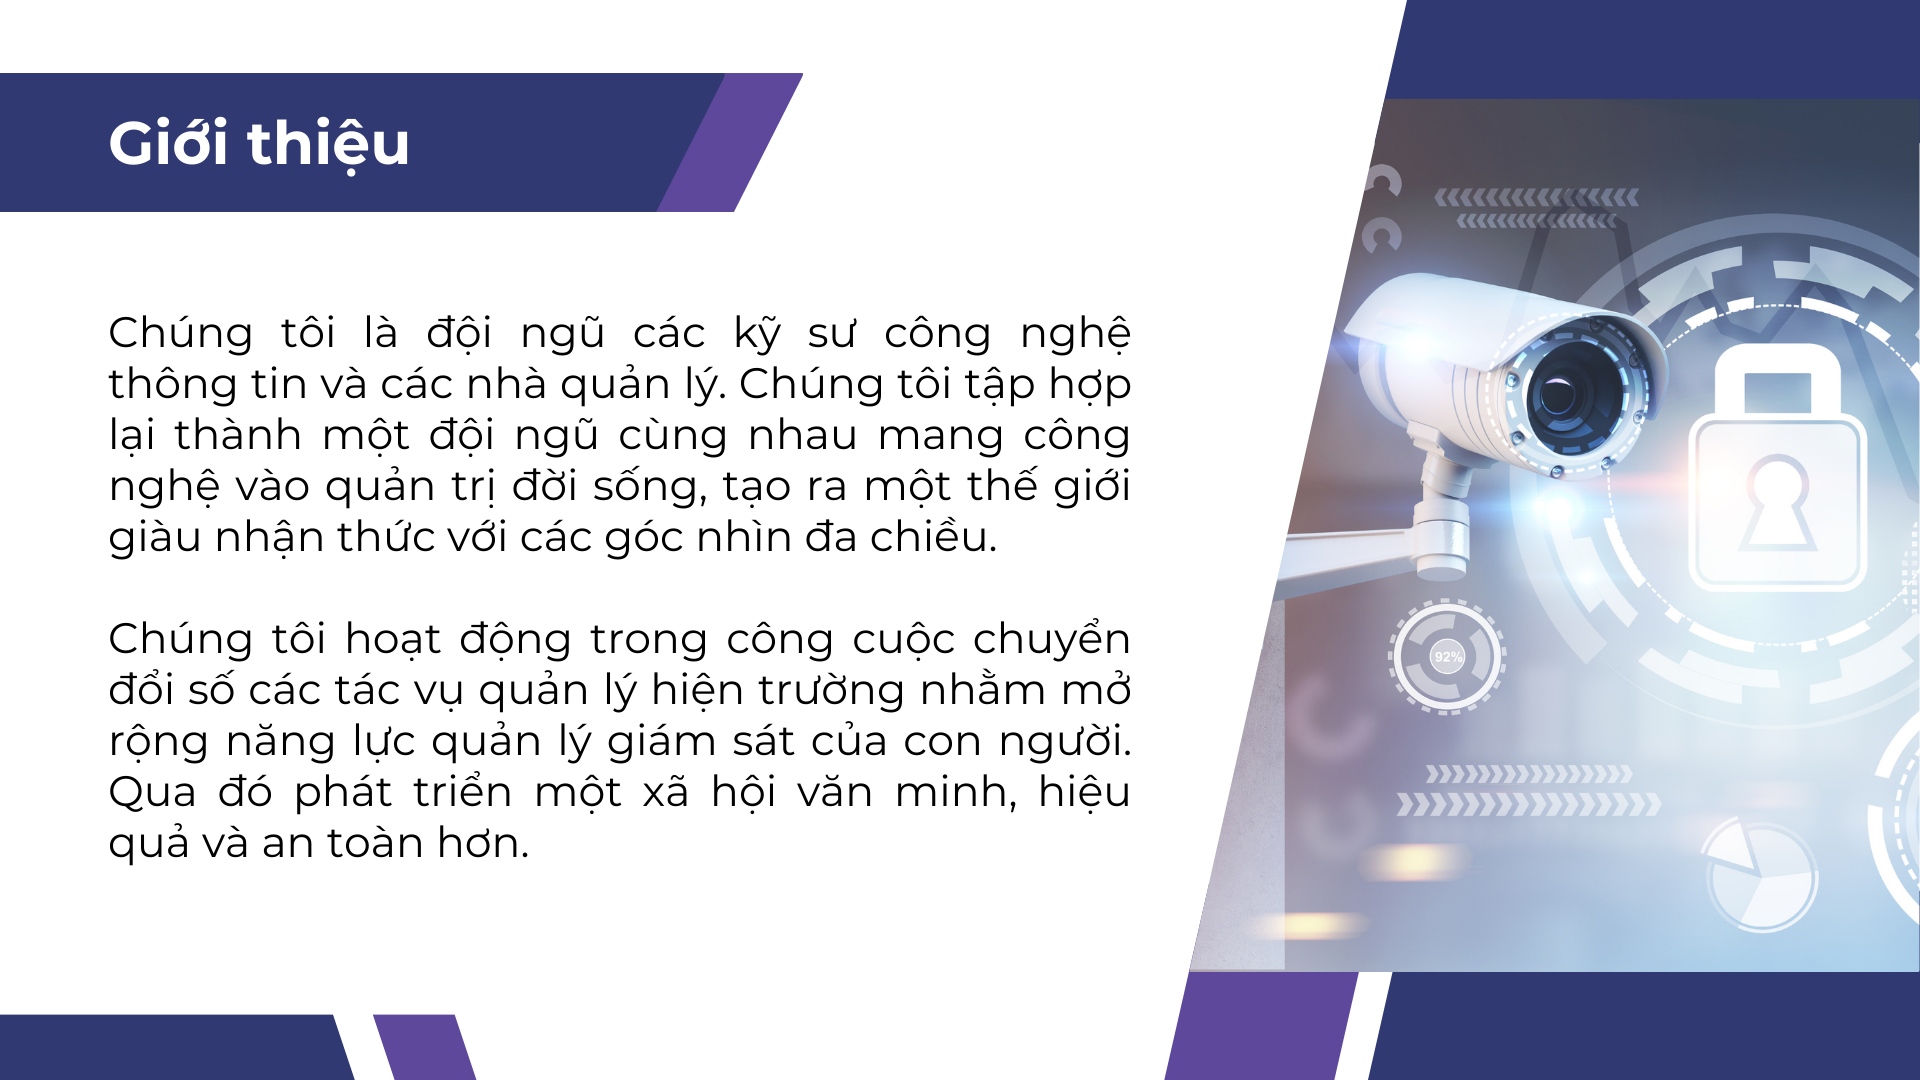
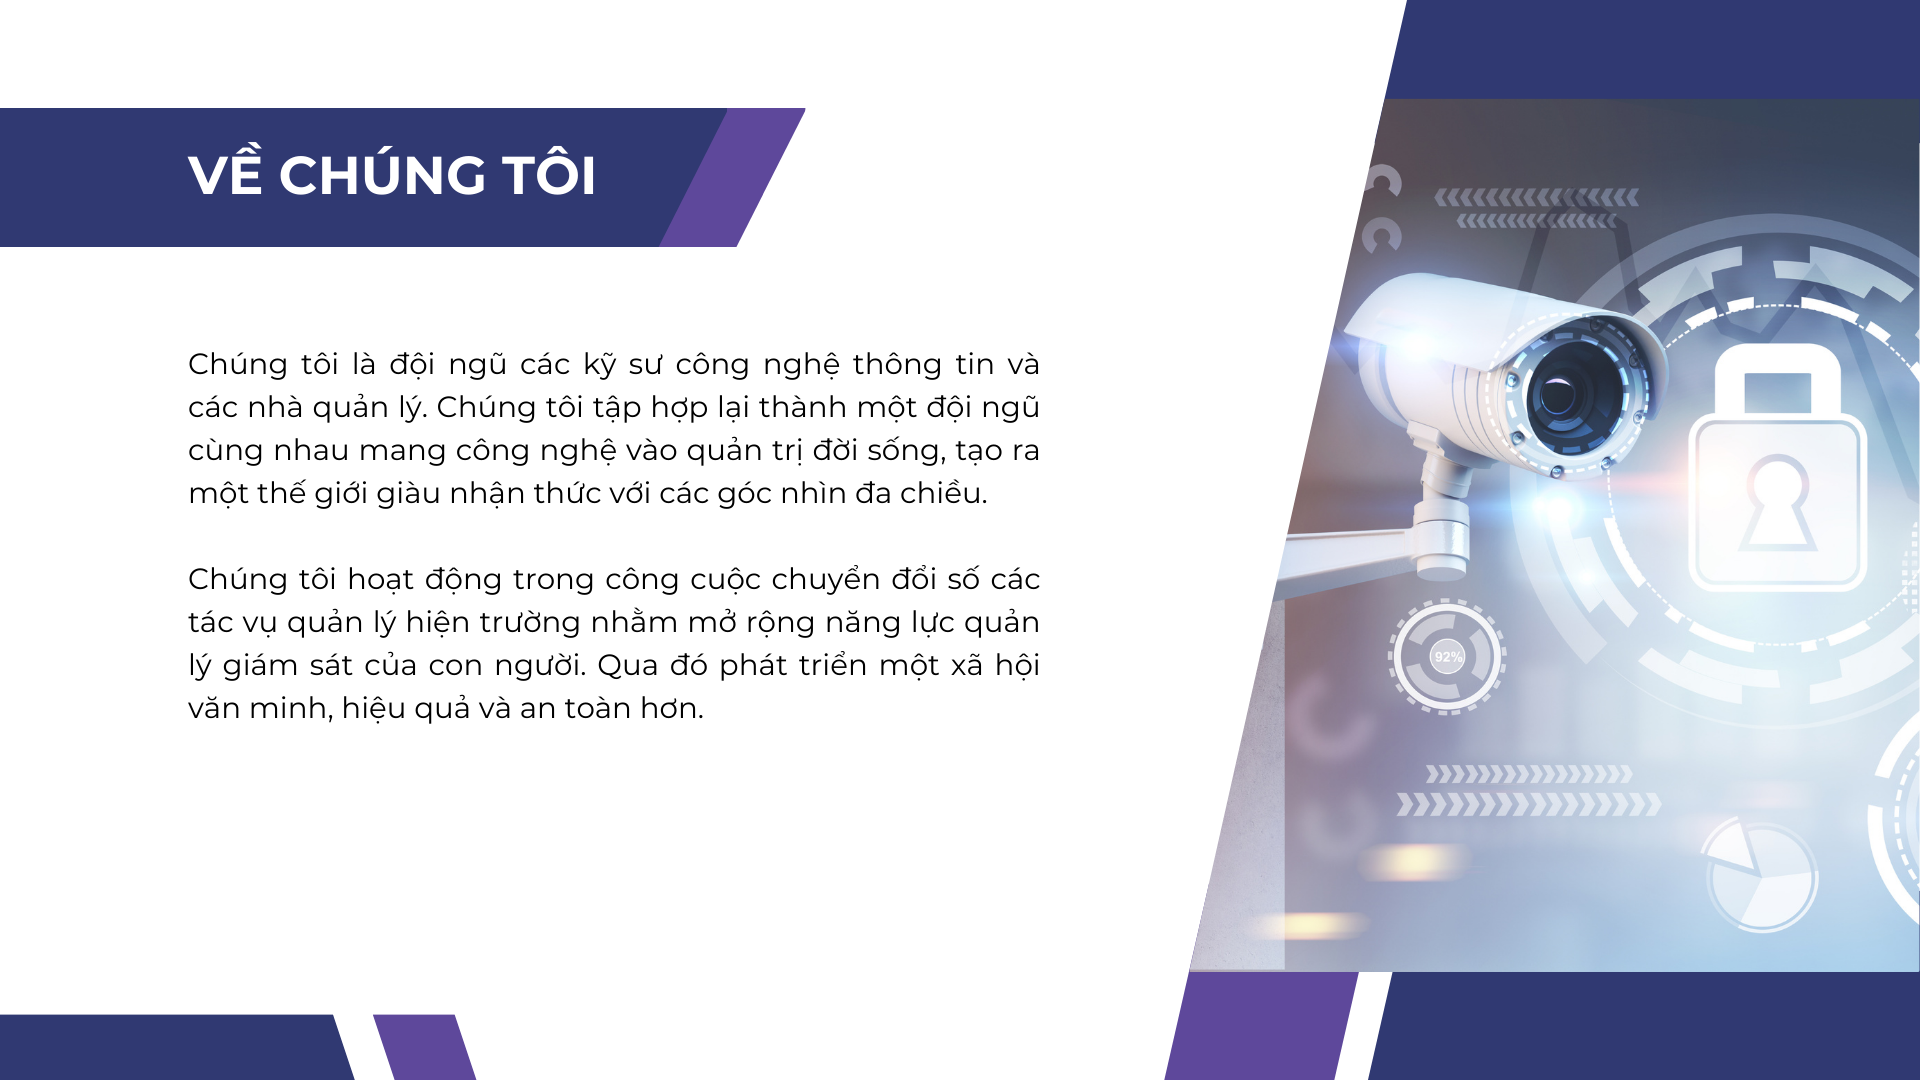
edit

Changed region(s): [[0.0625, 0.275, 0.5938, 0.7944], [0.0, 0.0611, 0.4375, 0.2444]]

diff --git a/components/Features.vue b/components/Features.vue
@@ -5,7 +5,6 @@
         <div class="col-md-12 col-lg-12 col-xl-12">
             <!-- section title -->
             <div class="text-center">
-                <h2>Về chúng tôi</h2>
                 <div class="w-100">
                   <img width="100%" src="../static/assets/img/2LTS_3.png" alt="">
                 </div>
@@ -25,7 +24,7 @@
                         <div class="single-feature-inner text-center">
                             <img
                               style="object-fit: contain;"
-                              src="https://lh3.googleusercontent.com/u/0/drive-viewer/AAOQEOSISuYrVjDtqhZzorbGad07am7nUuUdjWnRfxBexZXlXH7rjj5-TzZgqHovb9n4K4tPUUNTTkrbIJ036-8NfW_S3yP2LA=w1920-h969" 
+                              src="https://lh3.googleusercontent.com/u/0/drive-viewer/AAOQEOSISuYrVjDtqhZzorbGad07am7nUuUdjWnRfxBexZXlXH7rjj5-TzZgqHovb9n4K4tPUUNTTkrbIJ036-8NfW_S3yP2LA=w1920-h969"
                               class="svg"
                               alt=""
                             >
@@ -36,7 +35,7 @@
                         <div class="single-feature-inner text-center">
                             <img
                               style="object-fit: contain;"
-                              src="https://lh3.googleusercontent.com/u/0/drive-viewer/AAOQEORFaa-Za2e68WCSJMNdlRulty_4dYZ2wCKN0Ad9Mmtp0ZUqPG0Reqrkxb_sIJGl8KGwsLymV6u-csV7knlLjxFOrexHPQ=w1920-h969" 
+                              src="https://lh3.googleusercontent.com/u/0/drive-viewer/AAOQEORFaa-Za2e68WCSJMNdlRulty_4dYZ2wCKN0Ad9Mmtp0ZUqPG0Reqrkxb_sIJGl8KGwsLymV6u-csV7knlLjxFOrexHPQ=w1920-h969"
                               class="svg"
                               alt=""
                             >

diff --git a/components/NavOne.vue b/components/NavOne.vue
@@ -5,16 +5,16 @@
           <div class="main-menu-wrap">
               <div class="container">
                   <div class="row align-items-center">
-                      <div class="col-xl-3 col-lg-3 col-md-4 col-6">
+                      <div class="col-xl-2 col-lg-2 col-md-3 col-4">
                           <!-- Logo -->
                           <div class="logo">
                               <nuxt-link to="/">
-                                  <img src="/assets/img/logo.png" alt="jironis" width="15%">
+                                  <img src="/assets/img/logo.png" alt="jironis" width="30%">
                               </nuxt-link>
                           </div>
                           <!-- End of Logo -->
                       </div>
-                      <div class="col-xl-6 col-lg-6 col-md-4 col-6 menu-button">
+                      <div class="col-xl-7 col-lg-7 col-md-7 col-7 menu-button">
                           <div class="menu--inner-area clearfix">
                               <div class="menu-wraper">
                                   <nav>
@@ -31,7 +31,7 @@
 
                                               </li>
                                               <li><a href="#features">Chúng tôi</a></li>
-                                              <li><a href="#app">Sản phẩm</a></li>
+                                              <li><a href="#app">Tầm nhìn sứ mệnh</a></li>
                                               <li><a href="#pricing">
                                                 Tra cứu dịch vụ
                                               </a></li>

diff --git a/components/Screenshots.vue b/components/Screenshots.vue
@@ -1,17 +1,14 @@
 <template>
-  <section class="pt-120 pb-115 app-shot-one" id="app">
+  <section class="pt-30 pb-115 app-shot-one" id="app">
               <div class="container-fluid">
                 <div class="row justify-content-center">
-                    <div class="col-md-12 col-lg-8">
-                        <!-- section title -->
-                        <div class="section-title text-center">
-                            <h2>Jironis App Screens</h2>
-                            <p>Excepteur sint occaecat cupidatat non proident sunt in culpa qui officia deserunt <br> mollit lorem ipsum anim id est laborum perspiciatis unde.</p>
-                        </div>
-                        <!-- End of section title -->
+                    <div class="col-md-12 col-lg-12 col-xl-12">
+                      <div class="w-100">
+                        <img width="100%" src="../static/assets/img/2LTS_5.png" alt="">
+                      </div>
                     </div>
                 </div>
-                  <div class="app-shot-one__carousel thm__owl-carousel">
+                  <div class="app-shot-one__carousel thm__owl-carousel d-none">
 
                     <swiper :options="swiperOptions">
 

diff --git a/pages/index.vue b/pages/index.vue
@@ -3,16 +3,17 @@
     <NavOne />
     <BannerOne />
     <Features />
-    <Counter />
-    <ServiceOne />
-    <ServiceTwo />
+    <!-- <Counter /> -->
+    <!-- <ServiceOne /> -->
+    <!-- <ServiceTwo /> -->
+
+    <Screenshots />
     <Video />
-    <!-- <Screenshots /> -->
     <Pricing />
     <Testimonial />
-    <ClientsLogo />
-    <BlogHome />
-    <DownloadApp />
+    <!-- <ClientsLogo /> -->
+    <!-- <BlogHome /> -->
+    <!-- <DownloadApp /> -->
     <Footer />
   </div>
 
@@ -26,7 +27,7 @@
   import ServiceTwo from "../components/ServiceTwo";
   import ServiceOne from "../components/ServiceOne";
   import Video from "../components/Video";
-  // import Screenshots from "../components/Screenshots";
+  import Screenshots from "../components/Screenshots";
   import Pricing from "../components/Pricing";
   import Testimonial from "../components/Testimonial";
   import ClientsLogo from "../components/ClientsLogo";
@@ -39,7 +40,7 @@
       ClientsLogo,
       Testimonial,
       Pricing,
-      // Screenshots,
+      Screenshots,
       Video,
       ServiceOne,
       ServiceTwo,
